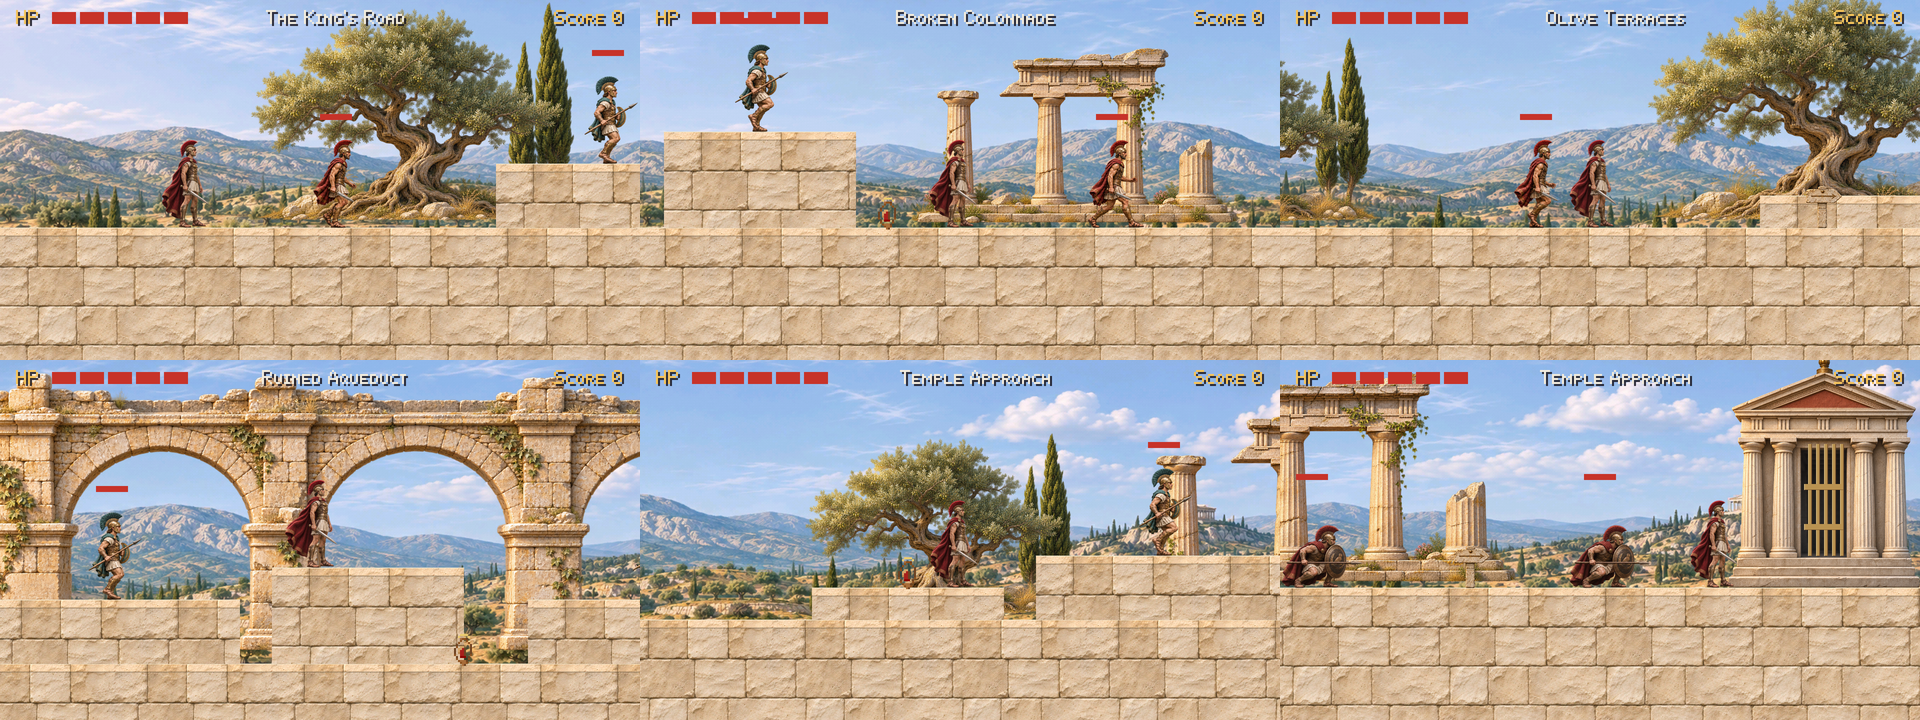
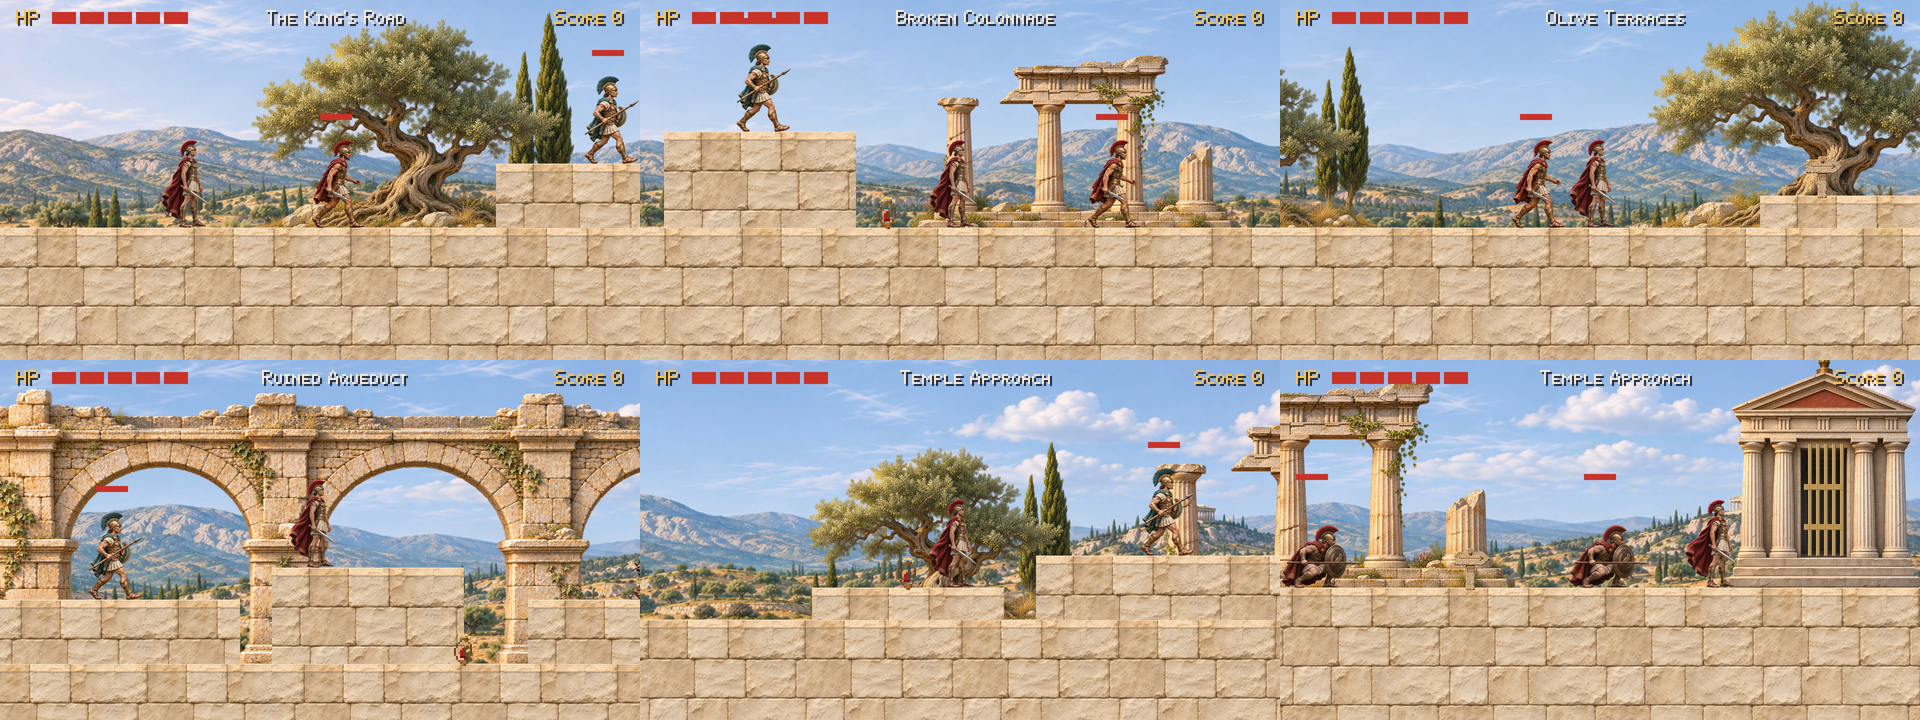
Fix scenery ground contact

diff --git a/docs/performance.md b/docs/performance.md
@@ -184,3 +184,18 @@ The sea uses S3TC/ETC2; the three cutouts remain lossless with a 1,024-pixel imp
 The route regression still traverses the original course with 20 jumps in 51.8 simulated seconds. Continuous-scenery checks cover every camera position along the route, low shore, both climbs, summit jumps, descent, and all four viewport edges. Scene isolation, original ledge collisions, paused temple entry, all five levels' mobile render-profile framing, import policies, and the 27 remaining legacy joins passed. The baker now counts legacy joins automatically; Levels 3–5 change only their baker hash metadata. The [Level 2 guide](level_2.md) includes refreshed in-game views of the five areas and the temple.
 
 The native iOS summit preview rendered one landscape and fourteen landmarks at the 720p world budget, with visible touch controls and a 2,144×1,206 UI framebuffer. It used the Intel Simulator’s Apple Software Renderer and does not establish physical-phone speed or quality. The ordinary playable iOS app was restored afterward. A stock-template Android artwork probe APK exported successfully with native ads excluded; production Gradle/AdMob integration and physical Android display quality remain untested.
+
+
+## Scenery ground contacts
+
+All five level renderers use `scenes/levels/scenery_grounding.gd` for their floor-standing scenery. Its anchors record the painted base row at 50% alpha in each source image, allowing for transparent margins and import resizing. Placement overlaps the terrain by one world pixel so bilinear filtering does not expose a distant-background strip below the roots or stone bases. The Level 1 olive grove previously floated about 3.5 world pixels above the floor; the corrected sample places its painted base about 0.95 pixels into the ground. Source images, texture formats, mipmaps, camera/parallax behavior, and collision shapes are unchanged.
+
+The rule covers Level 1 trees, colonnades, aqueduct and waystones; Level 2 outcrops, quays, gateways and waystones; Level 3 amphorae; and Level 4–5 broken columns. Waystones use the local authored surface height, including raised terraces. Anchors are stored with the scenery code; update them when the painted base in an asset changes. Gameplay performs no image readback or alpha search.
+
+```sh
+godot --path . --script res://tests/scenery_grounding.gd
+```
+
+The regression independently finds solid painted rows in imported textures and samples actual rendered contact pixels at 1×, 3×, 4× and 5× world scale (preview, 540p, 720p and desktop). Its negative control reproduces the original floating-tree placement and requires the same pixel check to reject it. It also checks actual Level 1–2 landmark bases as the camera moves through climbs and the full route. The existing five-level scenery and mobile-framing checks cover unchanged terrain, gates, camera ownership and render targets.
+
+The native iOS preview independently read the grove’s imported alpha and measured its painted base 0.95 world pixels inside the floor at the 720p budget, with touch controls visible. It used the Intel Simulator’s software renderer; physical-device performance was not measured. The normal playable iOS app was restored. A stock-template Android probe APK exported successfully without native ads; production Gradle/AdMob integration and physical Android display quality remain untested. Refreshed guide screenshots show all five levels, and the temple-entry animation retains the corrected background contact.

diff --git a/docs/level_1.md b/docs/level_1.md
@@ -35,6 +35,11 @@ movement, enemies, pickups, checkpoint spawns, and temple entry are unchanged.
 Level 2 now uses a continuous rocky coastline. Levels 3–5 retain their previous
 panorama renderers pending subsequent milestones.
 
+Standing scenery uses measured painted bases from `scenery_grounding.gd`, with
+one world pixel of overlap at the ground. This closes transparent-padding gaps
+under trees, ruins, pots, columns, and waystones while preserving their artwork
+and collision layout. See the [ground-contact regression](performance.md#scenery-ground-contacts).
+
 ## Route and encounter progression
 
 | Area | World X | Purpose | Encounters |

diff --git a/docs/level_3.md b/docs/level_3.md
@@ -25,6 +25,11 @@ patchy cutouts and hard vertical edges. Checkpoint shrines use matching
 cinematic limestone-and-bronze artwork, with cold and burning brazier states;
 their trigger areas and saved spawn positions are unchanged.
 
+Standing scenery uses measured painted bases from `scenery_grounding.gd`, with
+one world pixel of overlap at the ground. This closes transparent-padding gaps
+under trees, ruins, pots, columns, and waystones while preserving their artwork
+and collision layout. See the [ground-contact regression](performance.md#scenery-ground-contacts).
+
 ## Route
 
 | Area | World X | Route and encounters |

diff --git a/docs/level_4.md b/docs/level_4.md
@@ -29,6 +29,11 @@ patchy cutouts and hard vertical edges. Checkpoint shrines use matching
 cinematic limestone-and-bronze artwork, with cold and burning brazier states;
 their trigger areas and saved spawn positions are unchanged.
 
+Standing scenery uses measured painted bases from `scenery_grounding.gd`, with
+one world pixel of overlap at the ground. This closes transparent-padding gaps
+under trees, ruins, pots, columns, and waystones while preserving their artwork
+and collision layout. See the [ground-contact regression](performance.md#scenery-ground-contacts).
+
 ## Route
 
 | Area | World X | Route and encounters |

diff --git a/docs/level_5.md b/docs/level_5.md
@@ -28,6 +28,11 @@ patchy cutouts and hard vertical edges. Checkpoint shrines use matching
 cinematic limestone-and-bronze artwork, with cold and burning brazier states;
 their trigger areas and saved spawn positions are unchanged.
 
+Standing scenery uses measured painted bases from `scenery_grounding.gd`, with
+one world pixel of overlap at the ground. This closes transparent-padding gaps
+under trees, ruins, pots, columns, and waystones while preserving their artwork
+and collision layout. See the [ground-contact regression](performance.md#scenery-ground-contacts).
+
 ## Route
 
 | Area | World X | Route and encounters |

diff --git a/docs/level_2.md b/docs/level_2.md
@@ -40,6 +40,11 @@ encounters, movement, checkpoint behavior, and camera framing are unchanged.
 Level 1 retains its continuous countryside; Levels 3–5 keep their previous
 panorama renderers pending subsequent milestones.
 
+Standing scenery uses measured painted bases from `scenery_grounding.gd`, with
+one world pixel of overlap at the ground. This closes transparent-padding gaps
+under trees, ruins, pots, columns, and waystones while preserving their artwork
+and collision layout. See the [ground-contact regression](performance.md#scenery-ground-contacts).
+
 ## Route
 
 | Area | X range | Route and encounters |
